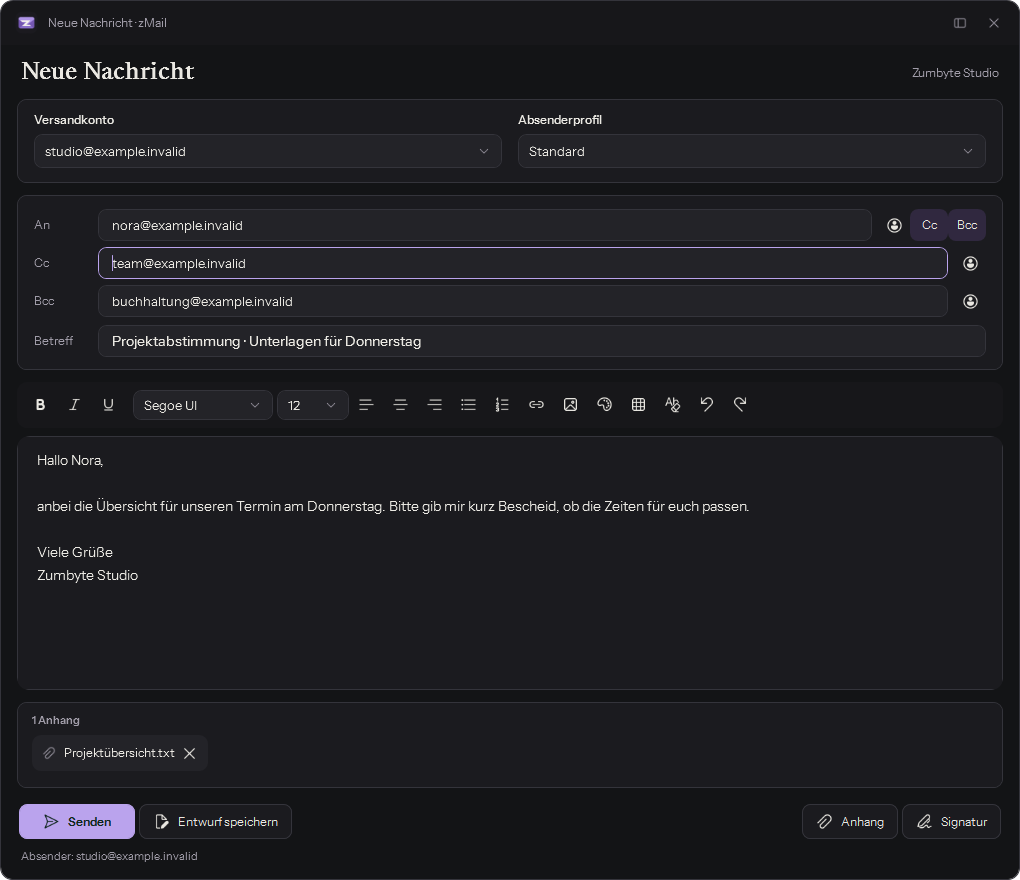
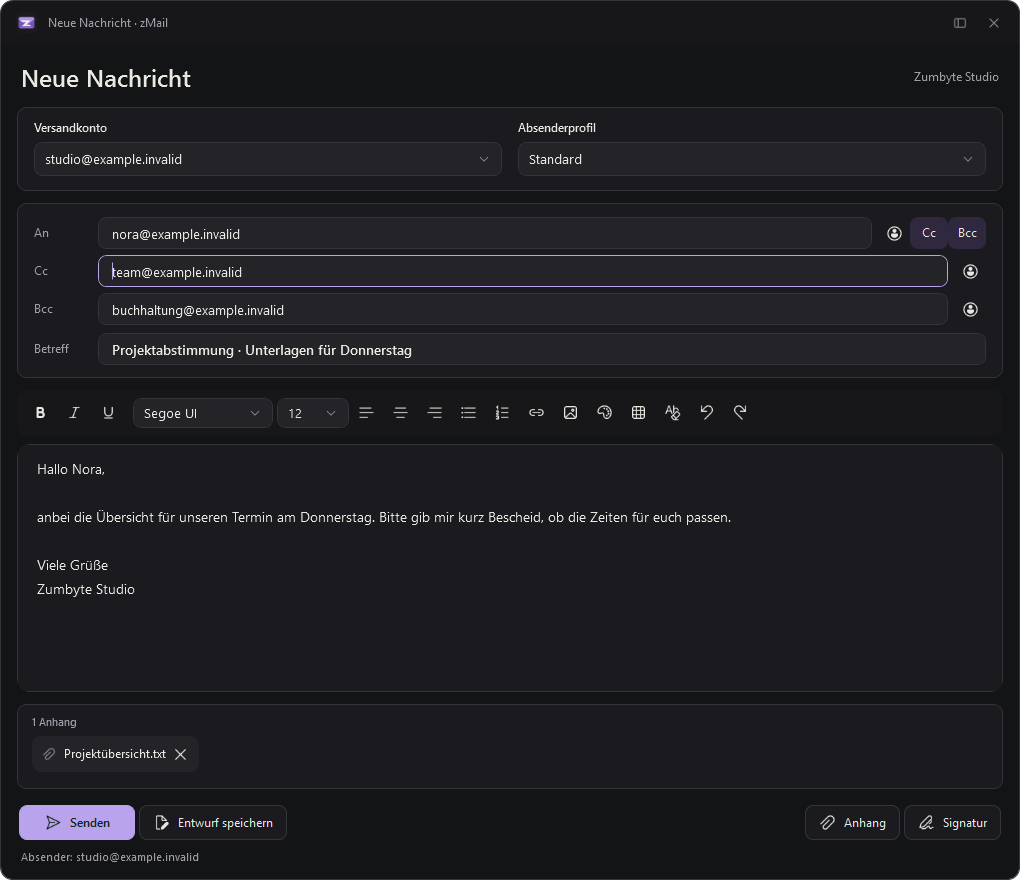
zMail 0.2.0-alpha.2: restore familiar app typography

diff --git a/README.md b/README.md
@@ -1,7 +1,7 @@
 <p align="center"><img src="assets/app-icon.png" width="112" height="112" alt="zMail"></p>
 <h1 align="center">zMail</h1>
 <p align="center">Korrespondenz mit Charakter.</p>
-<p align="center"><a href="https://github.com/ZUMBYTE-AppSolution/zuMail/releases/tag/v0.2.0-alpha.1">Herunterladen</a> · <a href="docs/Anleitung.md">Anleitung</a> · <a href="CHANGELOG.md">Changelog</a> · <a href="https://www.zumbyte.de/support/">Support</a></p>
+<p align="center"><a href="https://github.com/ZUMBYTE-AppSolution/zuMail/releases/tag/v0.2.0-alpha.2">Herunterladen</a> · <a href="docs/Anleitung.md">Anleitung</a> · <a href="CHANGELOG.md">Changelog</a> · <a href="https://www.zumbyte.de/support/">Support</a></p>
 
 zMail ist das Windows-Mailprogramm von **Zumbyte AppSolution**. Mehrere Mailkonten, getrennte Arbeitsbereiche, Kontakte und eigene Filter. Gestaltet im Stil von [zumbyte.de](https://zumbyte.de), mit dunkler oder heller Oberfläche und frei wählbarer Akzentfarbe.
 
@@ -11,9 +11,9 @@ zMail ist das Windows-Mailprogramm von **Zumbyte AppSolution**. Mehrere Mailkont
 
 | Windows 10 / 11 x64 | Datei |
 | --- | --- |
-| Mit Installation | [zMail installieren](https://github.com/ZUMBYTE-AppSolution/zuMail/releases/download/v0.2.0-alpha.1/zMail-0.2.0-alpha.1-win-x64-Setup.exe) |
-| Ohne Installation | [Portable ZIP herunterladen](https://github.com/ZUMBYTE-AppSolution/zuMail/releases/download/v0.2.0-alpha.1/zMail-0.2.0-alpha.1-win-x64-Portable.zip) |
-| Dateien überprüfen | [SHA-256-Prüfsummen](https://github.com/ZUMBYTE-AppSolution/zuMail/releases/download/v0.2.0-alpha.1/SHA256SUMS.txt) · [Signaturprüfung](https://github.com/ZUMBYTE-AppSolution/zuMail/releases/download/v0.2.0-alpha.1/signing-verification.json) |
+| Mit Installation | [zMail installieren](https://github.com/ZUMBYTE-AppSolution/zuMail/releases/download/v0.2.0-alpha.2/zMail-0.2.0-alpha.2-win-x64-Setup.exe) |
+| Ohne Installation | [Portable ZIP herunterladen](https://github.com/ZUMBYTE-AppSolution/zuMail/releases/download/v0.2.0-alpha.2/zMail-0.2.0-alpha.2-win-x64-Portable.zip) |
+| Dateien überprüfen | [SHA-256-Prüfsummen](https://github.com/ZUMBYTE-AppSolution/zuMail/releases/download/v0.2.0-alpha.2/SHA256SUMS.txt) · [Signaturprüfung](https://github.com/ZUMBYTE-AppSolution/zuMail/releases/download/v0.2.0-alpha.2/signing-verification.json) |
 
 Programm, Installer und Deinstaller sind über **Microsoft Artifact Signing** digital signiert. Der zertifizierte Herausgeber im Windows-Sicherheitsdialog ist **Andreas Zumbansen**.
 
@@ -70,16 +70,12 @@ Farbmodus, persönliche Akzentfarbe und Layout sind getrennt erreichbar. Der Col
 
 Für die Screenshots wurden getrennte Testprofile verwendet. Deren Kontakte und Nachrichten werden nicht mit der App ausgeliefert.
 
-## Neu in 0.2.0-alpha.1
+## Neu in 0.2.0-alpha.2
 
-- **zuMail heißt jetzt zMail.** Vorhandene Mailkonten, Arbeitsbereiche, Kontakte, Nachrichten und PIN-Einstellungen werden weiterverwendet. Eine neue Kontoeinrichtung ist nicht nötig.
-- **Neues Zumbyte-Design:** warme helle Flächen, ruhiges Anthrazit, die Schriften der Website und ein zum Farbmodus passender Lavendel-Akzent. Eigene Akzentfarben bleiben erhalten; in den Einstellungen steht zusätzlich „Zumbyte-Standard“ bereit.
-- **Überarbeitete Mailansicht:** eigene Fensterleiste, neue Wortmarke, Absenderinitialen in der Nachrichtenliste, klarere Abstände und eine aufgeräumte Ansicht beim ersten Start. Einstellungen, Kontakte, Verfassen und Menüs verwenden dieselbe Gestaltung.
-- **Neues App-Icon:** Brief und Z in Lavendel auf Anthrazit, mit dezentem Glow und abgestimmten Größen für Windows.
-- **Signierte Windows-Ausgabe:** Programm, Hilfskomponenten, Installer und Deinstaller werden lokal über Microsoft Artifact Signing signiert und mit Zeitstempel geprüft. Der Updater prüft zusätzlich zur Dateiprüfsumme die Windows-Signatur und den Herausgeber.
-- **Bestehende Verknüpfungen bleiben nutzbar.** Der bisherige zuMail-Startpfad ist weiterhin enthalten; er öffnet dieselbe Sitzung.
-
-[Alle Änderungen ansehen](CHANGELOG.md)
+- Die vertraute App-Schrift Segoe UI ist zurück: in Sidebar, Menüs, Buttons, Einstellungen, Überschriften und Wortmarke.
+- Website-Schriften werden nicht mehr eingebunden. Postfachüberschriften sind wieder kompakter und kräftiger.
+- Das neue Zumbyte-Design, persönliche Akzentfarben und vorhandene Profile bleiben erhalten.
+- Windows-Programm, Installer und Deinstaller sind weiterhin mit Microsoft Artifact Signing signiert.
 
 ## Funktionen
 

diff --git a/docs/Pruefung.md b/docs/Pruefung.md
@@ -1,11 +1,16 @@
-# Prüfung · 0.2.0-alpha.1
+# Prüfung · 0.2.0-alpha.2
 
-299 automatische Prüfungen mit getrennten Testprofilen und eigenen IMAP-/SMTP-Testservern. Es wurden keine echten Mailkonten, Kontakte oder Dokumente verändert.
+302 automatische Prüfungen mit getrennten Testprofilen und eigenen IMAP-/SMTP-Testservern. Es wurden keine echten Mailkonten, Kontakte oder Dokumente verändert.
+
+## Schriftbild
+
+- Website-Schriften werden nicht mehr eingebettet; Überschriften verwenden dieselbe Systemschrift wie die übrige App. Layoutausrichtung, Display-Formatierung und ClearType bleiben aktiv.
+- Native Rasterausgaben bei 100, 125, 150 und 200 Prozent erstellt und kontrolliert. Dies ersetzt keinen Test auf vier physischen Monitoren mit unterschiedlicher Skalierung.
 
 ## Neues Design und Umbenennung
 
 - Alte, mit der bisherigen DPAPI-Kennung geschützte Profile mit Konten, PIN, persönlicher Farbe und Layout geladen. Schlüssel und verschlüsselte Originalnachrichten bleiben bytegleich; Formatkennung und Profilpfad bleiben stabil.
-- Die eingebetteten Website-Schriften werden als tatsächliche WPF-Typefaces aufgelöst; kein stiller Ersatz durch die Systemschrift. Helle und dunkle Zumbyte-Farben sowie eine unverändert gespeicherte Cyan-Akzentfarbe geprüft.
+- Segoe UI regulär und halbfett werden als tatsächliche Windows-Schriftdateien aufgelöst. Sidebar, Buttons, Wortmarke, Einstellungen und Verfassen verwenden wieder die bisherige Systemschrift. Helle und dunkle Zumbyte-Farben sowie eine unverändert gespeicherte Cyan-Akzentfarbe geprüft.
 - Eigene Fensterleiste mit Windows-Fensterbefehlen, Absenderinitialen und neuer leerer Einrichtungsansicht. Leere Profile enthalten weiterhin keine Testkonten oder Mails.
 - Windows-Vertrauensprüfung akzeptiert die wirklich signierte App-Assembly und den freigegebenen Herausgeber. Eine veränderte signierte Datei und unsignierte Inhalte werden abgewiesen.
 - Signierte NSIS-Probe erzeugt einen gültig signierten Deinstaller mit Zeitstempel. Die Signaturen des tatsächlichen Programmpakets, Installers und installierten Deinstallers werden vor der Veröffentlichung nochmals geprüft.
@@ -41,7 +46,7 @@
 
 ## Pakete
 
-- Dieselben 299 Prüfungen gegen das tatsächlich installierte Paket ausgeführt.
+- Dieselben 302 Prüfungen gegen das tatsächlich installierte Paket ausgeführt.
 - Installierte Programmdatei und Chromium-Ressourcen mit dem Build verglichen. Portable ZIP Datei für Datei gegen den Build geprüft.
 - Deinstallation entfernt die Programmdateien und erhält fremde Testdateien und Profile. Bestehende Startmenüverknüpfungen und Registrierungseinträge des Prüfgeräts werden nach dem Test wiederhergestellt.
 - Keine Beispieldaten, vorbereiteten Profile, privaten Signierkonfigurationen oder OAuth-Registrierungen enthalten. Inhalte der Screenshots stammen ausschließlich aus den getrennten Testläufen.

diff --git a/CHANGELOG.md b/CHANGELOG.md
@@ -1,5 +1,13 @@
 # Changelog
 
+## 0.2.0-alpha.2 · Schriftbild
+
+- **Die vertraute App-Schrift ist zurück.** Menüs, Buttons, Sidebar, Einstellungen und Überschriften verwenden wieder Segoe UI. Die Website-Schriften werden nicht mehr in die App eingebunden.
+- **Klarere Überschriften:** Postfach und leerer Lesebereich erhalten wieder kompakte, kräftigere Überschriften. Die Wortmarke verwendet ebenfalls die App-Schrift.
+- **Das neue Zumbyte-Design bleibt:** Farben, Layout, Icon und persönliche Akzentfarben werden beibehalten. Vorhandene Nachrichten und ihre Formatierung bleiben erhalten.
+
+302 automatische Prüfungen. Darstellung als native WPF-Oberfläche und Rasterausgaben bei 100, 125, 150 und 200 Prozent kontrolliert. Windows-Pakete weiterhin mit Microsoft Artifact Signing signiert.
+
 ## 0.2.0-alpha.1 · zMail
 
 - **zuMail heißt jetzt zMail.** Vorhandene Mailkonten, Arbeitsbereiche, Kontakte, Nachrichten und PIN-Einstellungen werden weiterverwendet. Eine neue Kontoeinrichtung ist nicht nötig.
